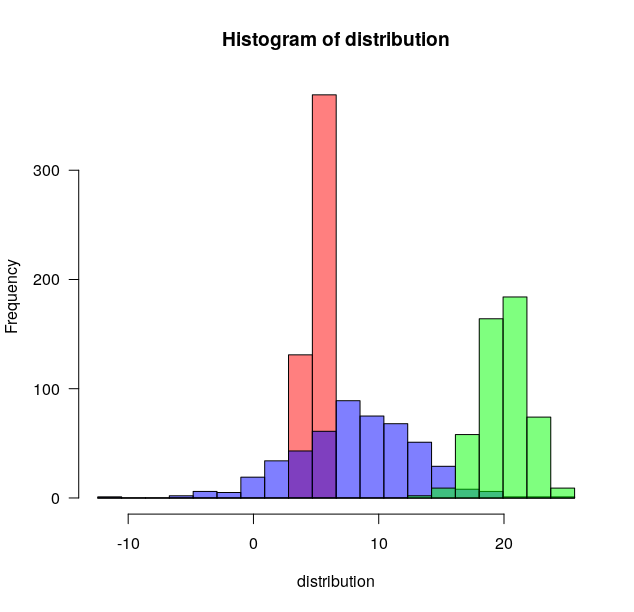
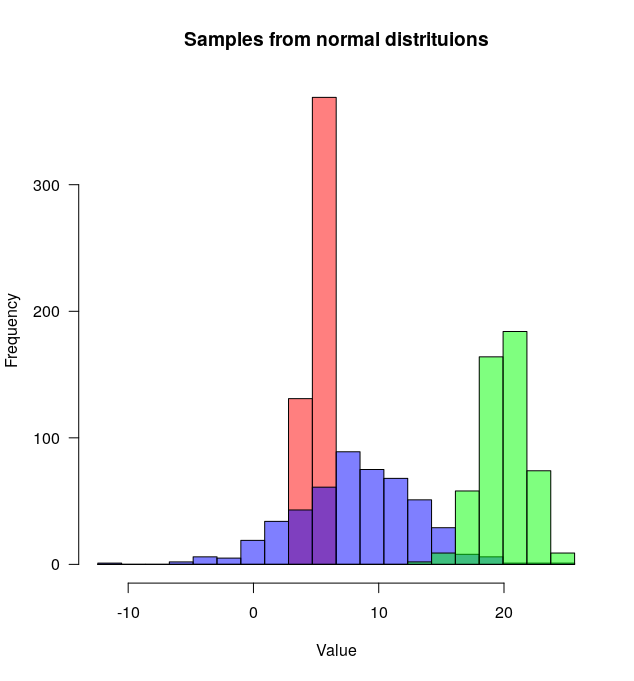
GeneralUpdate 23-04-2019

diff --git a/README.md b/README.md
@@ -90,7 +90,8 @@ distributions <- list(rnorm(500, mean=5, sd=0.5),
                       rnorm(500, mean=20, sd=2))
 
 # Plot overlapping histograms
-plotMultipleHistograms(distributions, nBins=20, colours=c(rgb(1,0,0, 0.5), rgb(0,0,1, 0.5), rgb(0,1,0, 0.5)), las=1)
+plotMultipleHistograms(distributions, nBins=20, colours=c(rgb(1,0,0, 0.5), rgb(0,0,1, 0.5), rgb(0,1,0, 0.5)), 
+					   las=1, main="Samples from normal distribution", xlab="Value")
 ```
 
 ![](ExampleImages/plotMultipleHistograms.png)
